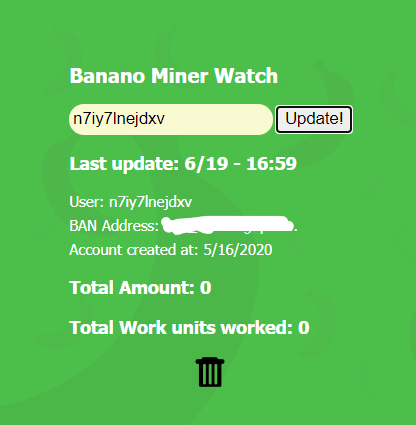
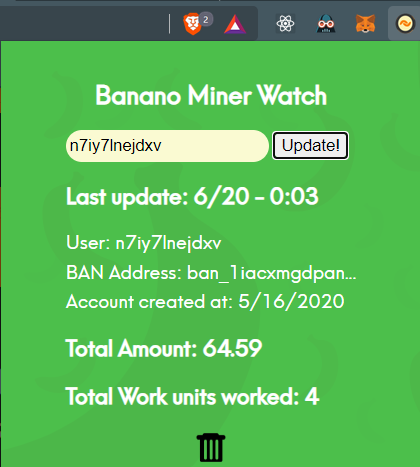
refresh assets for 1.0

Changed region(s): [[0.1562, 0.1529, 0.875, 0.7953], [0.0, 0.0, 1.0, 0.0918], [0.1562, 0.8259, 0.7812, 1.0]]

diff --git a/banano.css b/banano.css
@@ -39,7 +39,7 @@ body {
 /* banano user */
 .banano__title {
   font-size: 1rem;
-  text-size: center;
+  text-align: center;
 }
 .banano__user {
   transition: all 400ms;
